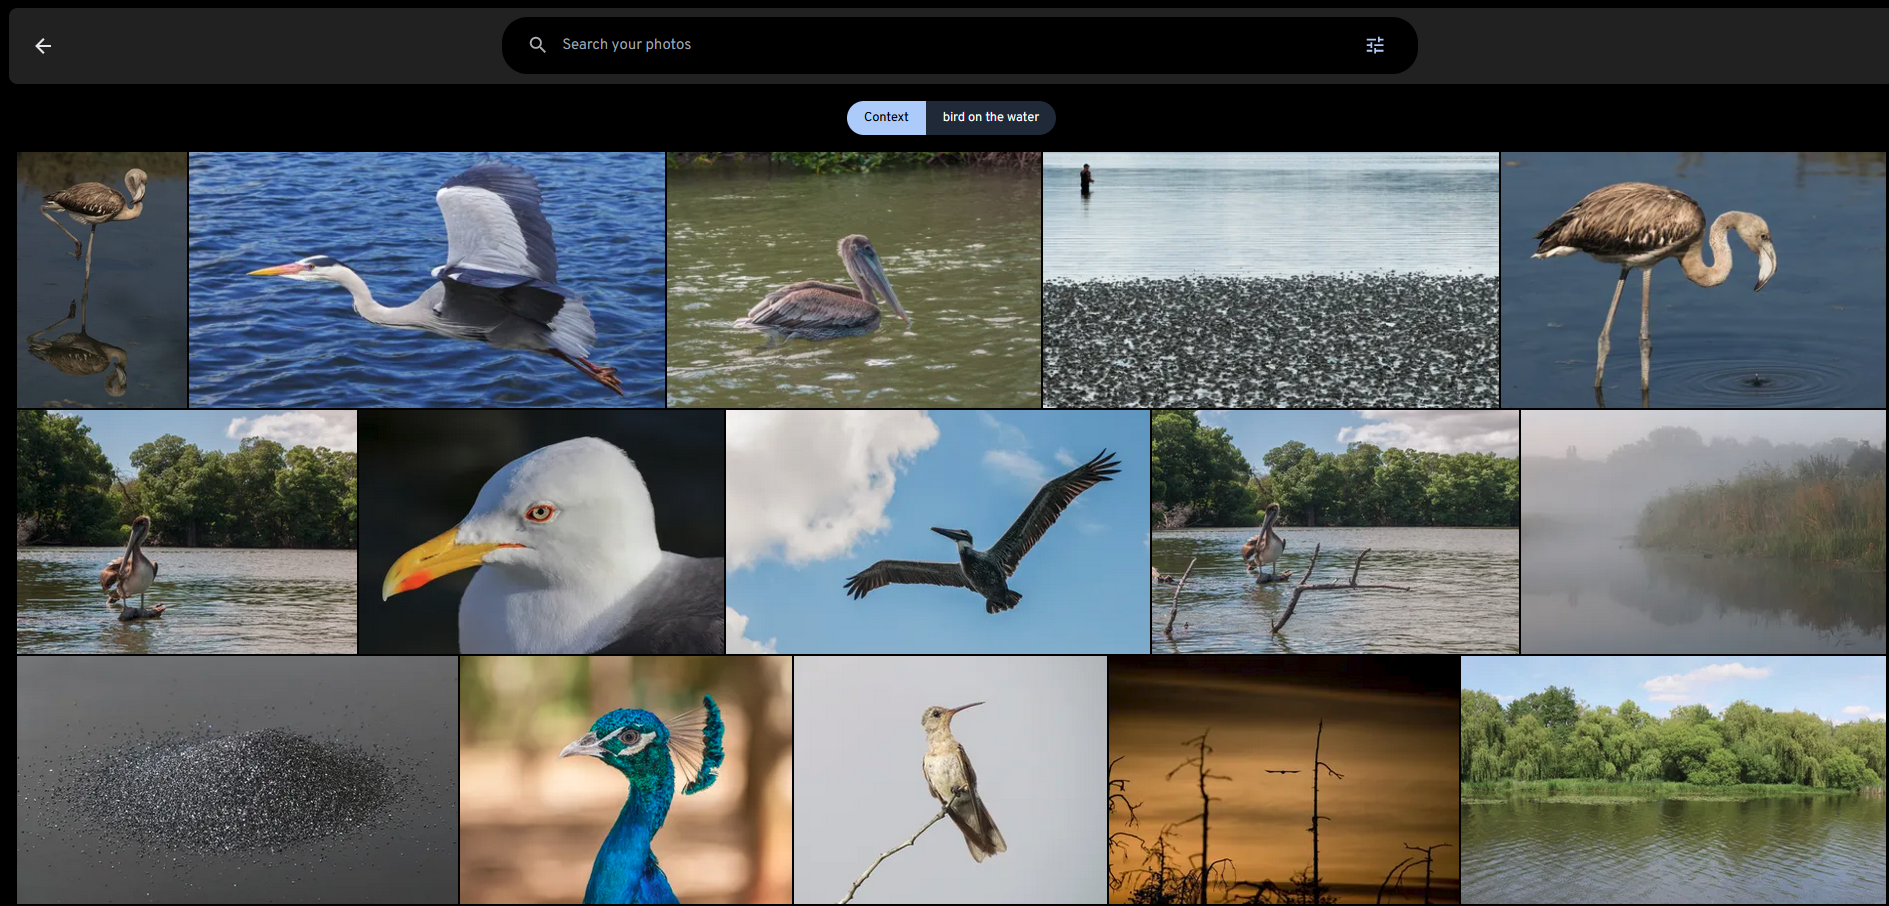
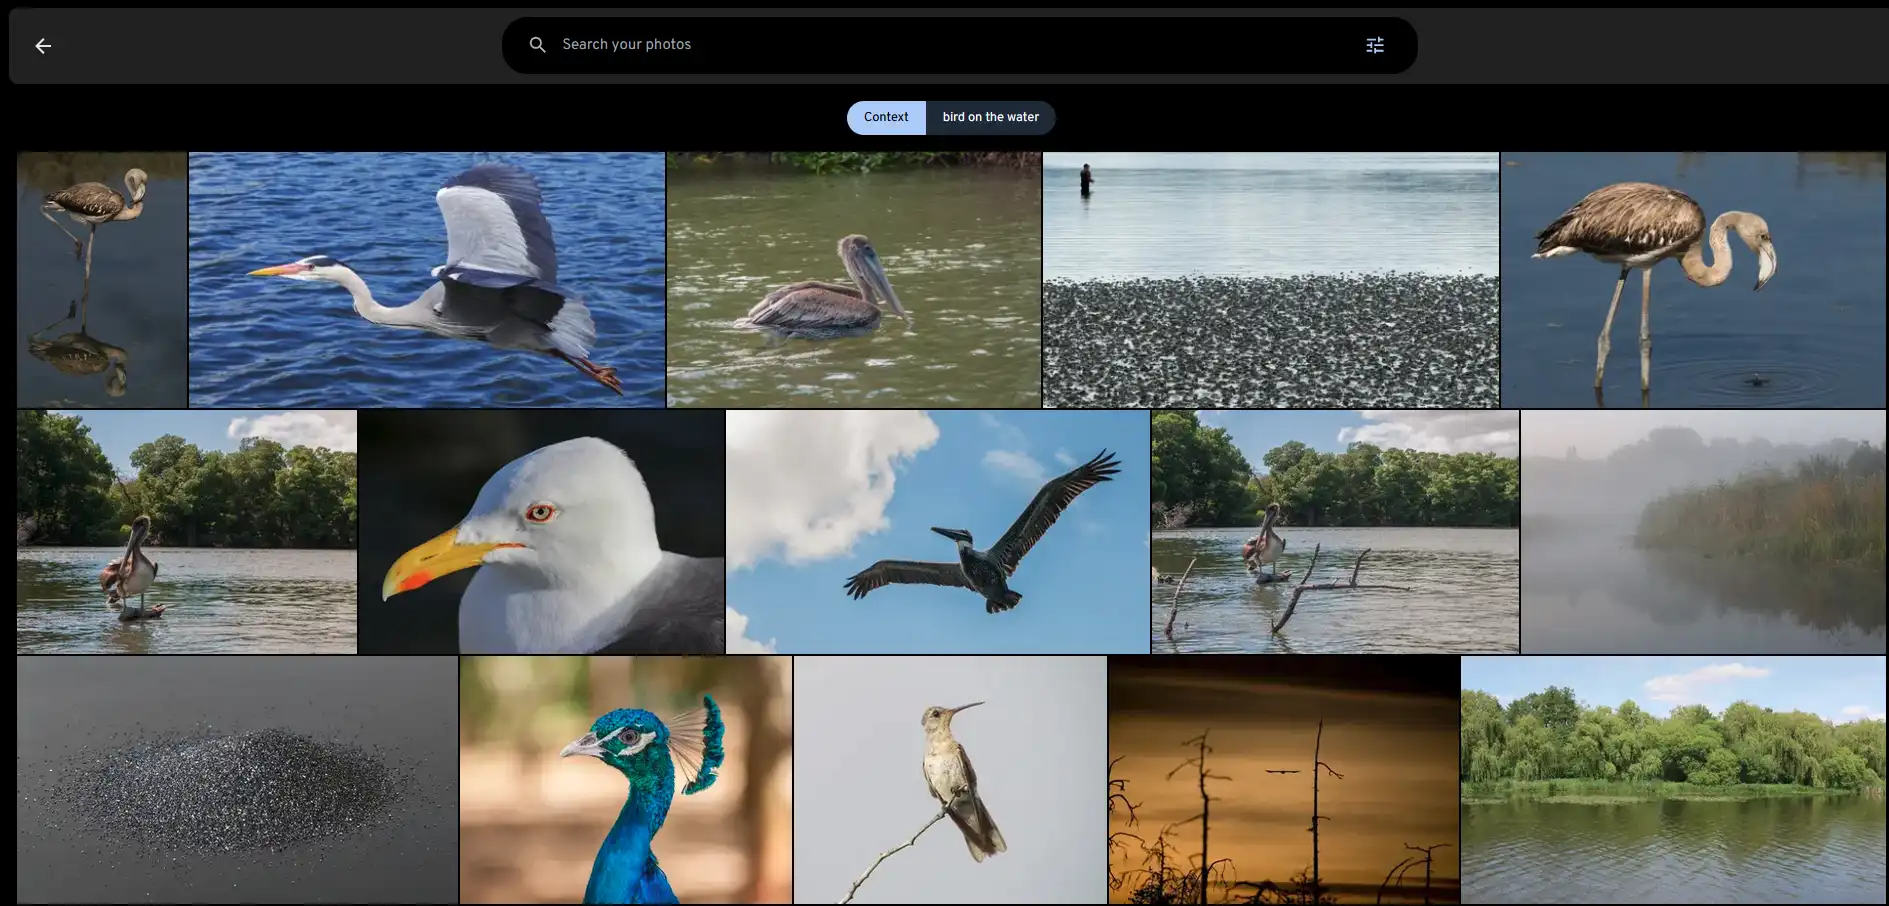
webp

diff --git a/docs/docs/features/libraries.md b/docs/docs/features/libraries.md
@@ -151,19 +151,13 @@ Within seconds, the assets from the old-pics and videos folders should show up i
 
 ### Folder view
 
-:::info
-This feature also exists for assets uploaded other than through external libraries.
-:::tip
-You can use the storage template migration feature for the best experience with uploaded assets in this view.
-:::
+Folder view provides an additional view besides the timeline that is similar to a file explorer. It allows you to navigate through the folders and files in the library. This feature is handy for a highly curated and customized external library or a nicely configured storage template.
 
-You can browse your photos and videos by folder like in a file explorer.
-
-Enable this feature from the Users Settings > Features > Folders.
+You can enable this feature under [`Account Settings > Features > Folder View`](https://my.immich.app/user-settings?isOpen=feature+folders)
 
 The UI is currently only available for the web; mobile will come in a subsequent release.
 
-<img src={require('./img/folder-view.png').default} width="75%" title='Folder-view' />
+<img src={require('./img/folder-view-1.webp').default} width="100%" title='Folder-view' />
 
 ### Set Custom Scan Interval
 

diff --git a/docs/docs/features/sharing.md b/docs/docs/features/sharing.md
@@ -12,13 +12,13 @@ After creating an album, you can access the sharing options by clicking on the s
 
 #### Web
 
-<img src={require('./img/shared-album.jpeg').default} width='60%' title='Shared album option' caption='ok' />
+<img src={require('./img/shared-album.webp').default} width='60%' title='Shared album option' caption='ok' />
 
-<img src={require('./img/shared-album-user-selection.png').default} width='30%' height='100%' title='Shared album user selection' />
+<img src={require('./img/shared-album-user-selection.webp').default} width='30%' height='100%' title='Shared album user selection' />
 
 #### Mobile App
 
-<img src={require('./img/shared-album-mobile.jpeg').default} width='33%' title='Shared album option' />
+<img src={require('./img/shared-album-mobile.webp').default} width='33%' title='Shared album option' />
 
 ### Partners
 

diff --git a/docs/docs/features/folder-view.md b/docs/docs/features/folder-view.md
@@ -6,12 +6,12 @@ You can enable this feature under [`Account Settings > Features > Folder View`](
 
 ## Enable folder view
 
-<img src={require('./img/folder-view-enable.png').default} width="80%" title='Folder view enable' />
+<img src={require('./img/folder-view-enable.webp').default} width="80%" title='Folder view enable' />
 
 ## Usage
 
 You can then navigate to the view from the sidebar to explore the folders and files in your library.
 
-<img src={require('./img/folder-access.png').default} width="30%" title='Folder view access' />
+<img src={require('./img/folder-access.webp').default} width="30%" title='Folder view access' />
 
-<img src={require('./img/folder-view-1.jpeg').default} width="100%" title='Folder view' />
+<img src={require('./img/folder-view-1.webp').default} width="100%" title='Folder view' />

diff --git a/docs/docs/overview/Comparison.md b/docs/docs/overview/Comparison.md
@@ -4,5 +4,5 @@ sidebar_position: 2
 
 # Comparison
 
-If you're new here and came from other photo self-hosting alternatives you might want to look at a comparison between Immich and your current solution.
+If you're new here and came from other asset self-hosting alternatives you might want to look at a comparison between Immich and your current solution.
 Here you can see a [comparison between the various OpenSource Photo Libraries](https://meichthys.github.io/foss_photo_libraries/) including Immich.

diff --git a/docs/docs/administration/jobs-workers.md b/docs/docs/administration/jobs-workers.md
@@ -48,4 +48,4 @@ When a new asset is uploaded it kicks off a series of jobs, which include metada
 
 Additionally, some jobs run on a schedule, which is every night at midnight. This schedule, with the exception of [External Libraries](/docs/features/libraries) scanning, cannot be changed.
 
-<img src={require('./img/admin-jobs.png').default} width="60%" title="Admin jobs" />
+<img src={require('./img/admin-jobs.webp').default} width="60%" title="Admin jobs" />
